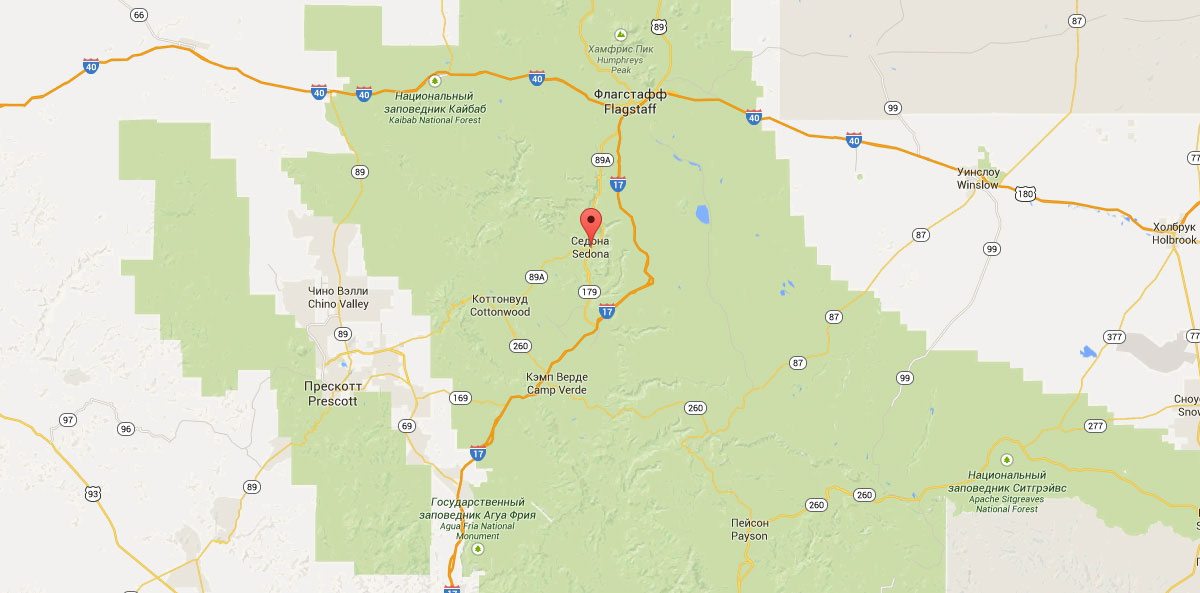
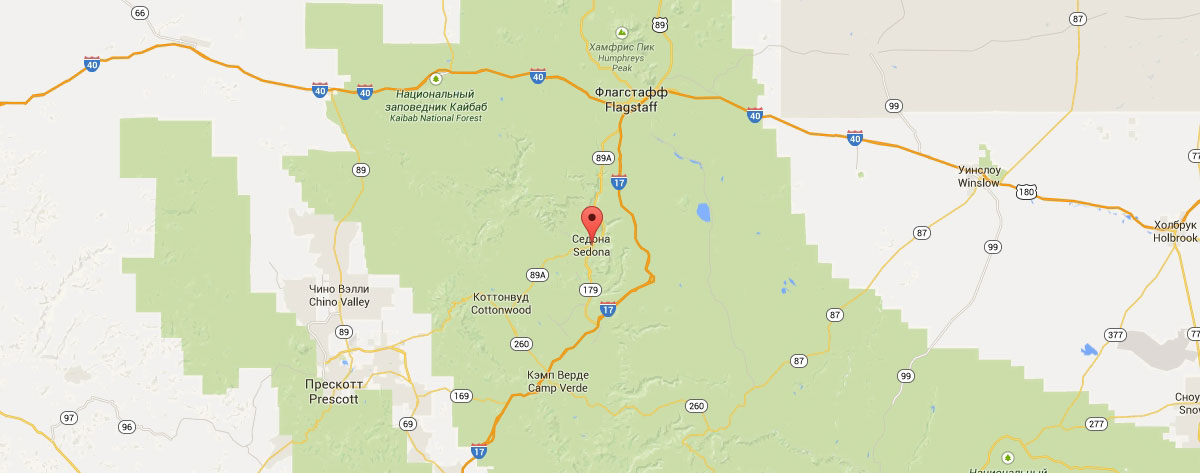
Введение в JavaScript

diff --git a/index.html b/index.html
@@ -8,31 +8,31 @@
     <link href="css/style.css" rel="stylesheet">
   </head>
   <body>
-    <header class="main-header central">
-      <nav class="main-nav">
-      	<img src="img/logo.png" width="138" height="70" alt="Лого Седона">
-        <ul>
-          <li><a href="#">Информация</a></li>
-          <li><a href="#">Фото и видео</a></li>
-          <li><a href="#">Карта штата</a></li>
-          <li><a href="#">Гостиницы</a></li>
-        </ul>
-      </nav>
-    </header>
-    <main class="central">
-      <div class="intro">
-        <img class="central" src="img/intro-text.png" width="458" height="352" alt="Welcome to Sedona">
-      </div>
-      <div class="features">
-      	<h2>Седона — небольшой городок в Аризоне,<br>заслуживающий большего!</h2>
-      	<p>Рассмотрим 5 причин, по которым Седона круче, чем Гранд Каньон!</p>
-      	<div class="feature-wrapper clearfix">
-      	  <div class="feature-item left">
-      	    <h3>Настоящий<br>городок</h3>
-      	    <span>&mdash; №1 &mdash;</span>
-      	    <p>Седона &mdash; не аттракцион для туристов,<br>там течет своя жизнь</p>
-      	  </div>
-      	</div>
+  	<header class="main-header central">
+	    <nav class="main-nav">
+	    	<img src="img/logo.png" width="138" height="70" alt="Лого Седона">
+	      <ul>
+	        <li><a href="#">Информация</a></li>
+	        <li><a href="#">Фото и видео</a></li>
+	        <li><a href="#">Карта штата</a></li>
+	        <li><a href="#">Гостиницы</a></li>
+	      </ul>
+	    </nav>
+	  </header>
+	  <main class="central">
+	    <div class="intro">
+	      <img src="img/intro-text.png" width="458" height="352" alt="Welcome to Sedona">
+	    </div>
+	    <div class="features">
+	    	<h2>Седона — небольшой городок в Аризоне,<br>заслуживающий большего!</h2>
+	    	<p>Рассмотрим 5 причин, по которым Седона круче, чем Гранд Каньон!</p>
+	    	<div class="feature-wrapper clearfix">
+	     	  <div class="feature-item left">
+	     	    <h3>Настоящий<br>городок</h3>
+	     	    <span>&mdash; №1 &mdash;</span>
+	     	    <p>Седона &mdash; не аттракцион для туристов,<br>там течет своя жизнь</p>
+	     	  </div>
+	     	</div>
       	<div class="feature-wrapper  clearfix">
       		<div class="feature-item housing">
       			<h3>Жилье</h3>
@@ -72,47 +72,48 @@
 					</div>      		
       	</div>
       </div>
-      <div class="location">
-      	<span>Заинтересовались?</span>
-      	<p>Укажите предполагаемые даты поездки,<br>и мы покажем вам лучшие предложения гостиниц в Седоне</p>
+	    <div class="location">
+	     	<span>Заинтересовались?</span>
+	     	<p>Укажите предполагаемые даты поездки,<br>и мы покажем вам лучшие предложения гостиниц в Седоне</p>
 	      <div class="hotel-search central">
-	      	<h2>Поиск гостиницы в Седоне</h2>
-	      	<form>
+	      	<h2 class="search-button">Поиск гостиницы в Седоне</h2>
+	      	<form class="search-form">
 	      		<div class="field-wrapper clearfix">
 		      		<label for="arr">Дата заезда:</label>
 		      		<input class="date" type="text" name="arrival" placeholder="24 апреля 2017" id="arr">
-		      		<button class="calendar">Календарь</button>
+		      		<button class="calendar" type="button">Календарь</button>
 		      	</div>
 	      		<div class="field-wrapper clearfix">
 		      		<label for="dep">Дата выезда:</label>
 		      		<input class="date" type="text" name="departure" placeholder="4 июля 2017" id="dep">
-		      		<button class="calendar">Календарь</button>
+		      		<button class="calendar" type="button">Календарь</button>
 		      	</div>
 		      	<div class="field-wrapper clearfix">
 	      			<label for="ad">Взрослые:</label>
 	      			<div class="number-wrapper clearfix">
-		      			<button class="down"></button>
+		      			<button class="down" type="button"></button>
 		      			<input class="number" type="text" name="adults" placeholder="2" id="ad">
-		      			<button class="up"></button>
+		      			<button class="up" type="button"></button>
 	      			</div>
 	      			<label for="chi">Дети:</label>
 	      			<div class="number-wrapper clearfix">
-	      				<button class="down"></button>
+	      				<button class="down" type="button"></button>
 	      				<input class="number" type="text" name="children" placeholder="0" id="chi">
-	      				<button class="up"></button>
+	      				<button class="up" type="button"></button>
 	      			</div>
 	      		</div>
 	      		<button class="btn" type="submit">Найти</button>
 	      	</form>
 	      </div>
 	      <div class="map">
-      		<img src="img/map.jpg" width="1200" height="593" alt="Карта">
+	      	<img src="img/map.jpg" width="1200" height="473" alt="Карта">
+      		<iframe src="https://www.google.com/maps/embed?pb=!1m18!1m12!1m3!1d706999.9603019269!2d-111.73560559195013!3d34.597702647841544!2m3!1f0!2f0!3f0!3m2!1i1024!2i768!4f13.1!3m3!1m2!1s0x872da132f942b00d%3A0x5548c523fa6c8efd!2z0KHQtdC00L7QvdCwLCDQkNGA0LjQt9C-0L3QsCA4NjMzNiwg0KHQqNCQ!5e0!3m2!1sru!2sru!4v1487594665826" width="1200" height="593" frameborder="0" style="border:0" allowfullscreen></iframe>
       	</div>
-      </div>	
-    </main>
-    <footer class="main-footer central clearfix">
-    	<div class="hashtag">
-    		<a href="#">#visitsedona</a>
+  	  </div>	
+		</main>
+  	<footer class="main-footer central clearfix">
+   		<div class="hashtag">
+   			<a href="#">#visitsedona</a>
     	</div>
     	<div class="socials">
     		<a class="btn socials-tw" href="#">Twitter</a>
@@ -124,5 +125,6 @@
     		<a href="#">HTML Academy</a>
     	</div>
     </footer>
+    <script src="js/popup.js"></script>
   </body>
 </html>

diff --git a/css/style.css b/css/style.css
@@ -31,11 +31,11 @@ p {
 }
 
 .central {
+	width: 1200px;
 	margin: 0 auto;
 }
 
 .main-header {
-	width: 1200px;
 	min-height: 56px;
 	background-color: #ffffff;
 }
@@ -101,7 +101,6 @@ p {
 }
 
 main {
-	width: 1200px;
 	background-color: #ffffff;
 }
 
@@ -116,6 +115,7 @@ main {
 
 .intro img {
 	display: block;
+	margin: 0 auto;
 }
 
 .clearfix::after {
@@ -230,22 +230,70 @@ main {
 	width: 568px;
 }
 
-.hotel-search h2 {
+.hotel-search .search-button {
 	padding: 34px 0;
 	color: #ffffff;
 	background-color: #766357;
+	cursor: pointer;
 }
 
-.hotel-search form {
+.hotel-search .search-button:hover {
+	background-color: #604e43;
+}
+
+.hotel-search .search-button:active {
+	color: rgba(255,255,255,0.3);
+	background-color: #503e33;
+}
+
+.search-form {
 	position: absolute;
 	top: 94px;
 	left: 0;
+	z-index: 4;
+	display: none;
 	padding: 55px;
 	font-weight: 700;
 	background-color: #ffffff;
 }
 
-.hotel-search .field-wrapper {
+@keyframes appearance {
+	0% {
+		opacity: 0;
+	}
+	33% {
+		opacity: 0,3;
+	}
+	66% {
+		opacity: 0.6;
+	}
+	100% {
+		opacity: 1;
+	}
+}
+
+@keyframes shake {
+	0%, 100% {
+    	transform: translateX(0);
+	}
+	10%, 30%, 50%, 70%, 90% {
+    	transform: translateX(-10px);
+	}
+	20%, 40%, 60%, 80% {
+    	transform: translateX(10px);
+	}
+}
+
+.search-form-show {
+	display: block;
+	animation: appearance 0.3s;
+}
+
+.search-form-error {
+	animation: shake 0.5s;
+}
+
+.search-form .field-wrapper {
 	position: relative;
 	margin-bottom: 30px;
 	padding: 0;
@@ -275,7 +323,7 @@ main {
 	background-position: 0 -77px;
 }
 
-.hotel-search label {
+.search-form label {
 	display: inline-block;
 	width: 112px;
 	font-size: 14px;
@@ -283,7 +331,7 @@ main {
 	vertical-align: top;
 }
 
-.hotel-search input {
+.search-form input {
 	display: inline-block;
 	border: none;
 	padding-top: 6px;
@@ -298,21 +346,21 @@ main {
 	outline: none;
 }
 
-.hotel-search .date {
+.search-form .date {
 	width: 292px;
 	padding-left: 13px;
 	padding-right: 41px;
 }
 
-.hotel-search .date:hover {
+.search-form .date:hover {
 	background-color: #ebebeb;
 }
 
-.hotel-search .date:active {
+.search-form .date:active {
 	background-color: #ebebeb;
 }
 
-.hotel-search .date:focus {
+.search-form .date:focus {
 	width: 288px;
 	border: 2px solid #e5e5e5;
 	padding-top: 4px;
@@ -320,7 +368,7 @@ main {
 	background-color: #ffffff;
 }
 
-.hotel-search .number {
+.search-form .number {
 	width: 34px;
 	padding-left: 40px;
 	padding-right: 40px;
@@ -337,8 +385,8 @@ main {
 	position: relative;
 }
 
-.hotel-search .up,
-.hotel-search .down {
+.search-form .up,
+.search-form .down {
 	position: absolute;
 	top: 0;
 	right: 0;
@@ -353,28 +401,28 @@ main {
 	cursor: pointer;
 }
 
-.hotel-search .up:hover {
+.search-form .up:hover {
 	background-position: -62px -25px;
 }
 
-.hotel-search .up:active {
+.search-form .up:active {
 	background-position: -62px -63px;
 }
 
-.hotel-search .down {
+.search-form .down {
 	left: 0;
 	background-position: 14px 14px;
 }
 
-.hotel-search .down:hover {
+.search-form .down:hover {
 	background-position: 14px -25px;
 }
 
-.hotel-search .down:active {
+.search-form .down:active {
 	background-position: 14px -63px;
 }
 
-.hotel-search button[type="submit"] {
+.search-form button[type="submit"] {
 	width: 100%;
 	clear: both;
 	border: none;
@@ -385,8 +433,25 @@ main {
 	outline: none;
 }
 
+.location .map {
+	position: relative;
+}
+
+.map img {
+	position: relative;
+	z-index: 1;
+}
+
+.map iframe {
+	position: absolute;
+	top: 0;
+	left: 0;
+	z-index: 2;
+}
+
 .main-footer {
-	width: 1200px;
+	position: relative;
+	z-index: 3;
 	min-height: 120px;
 	background-color: rgba(255,255,255,0.9);
 }

diff --git a/js/popup.js b/js/popup.js
@@ -1,0 +1,19 @@
+var button = document.querySelector(".search-button");
+var popup = document.querySelector(".search-form");
+var arrival = popup.querySelector("[name=arrival]");
+var departure = popup.querySelector("[name=departure]");
+
+button.addEventListener("click", function(event) {
+    event.preventDefault();
+    popup.classList.toggle("search-form-show");
+    popup.classList.remove("search-form-error");
+});
+
+popup.addEventListener("submit", function(event) {
+    if (!arrival.value || !departure.value) {
+        event.preventDefault();
+        popup.classList.remove("search-form-error");
+        popup.offsetWidth = popup.offsetWidth;
+        popup.classList.add("search-form-error");
+    }
+});

diff --git a/hotels.html b/hotels.html
@@ -8,7 +8,7 @@
     <link href="css/style.css" rel="stylesheet">
   </head>
   <body>
-  	<header class="main-header central">
+ 		<header class="main-header central">
       <nav class="main-nav">
       	<a href="#"><img src="img/logo.png" width="138" height="70" alt="Лого Седона"></a>
         <ul>
